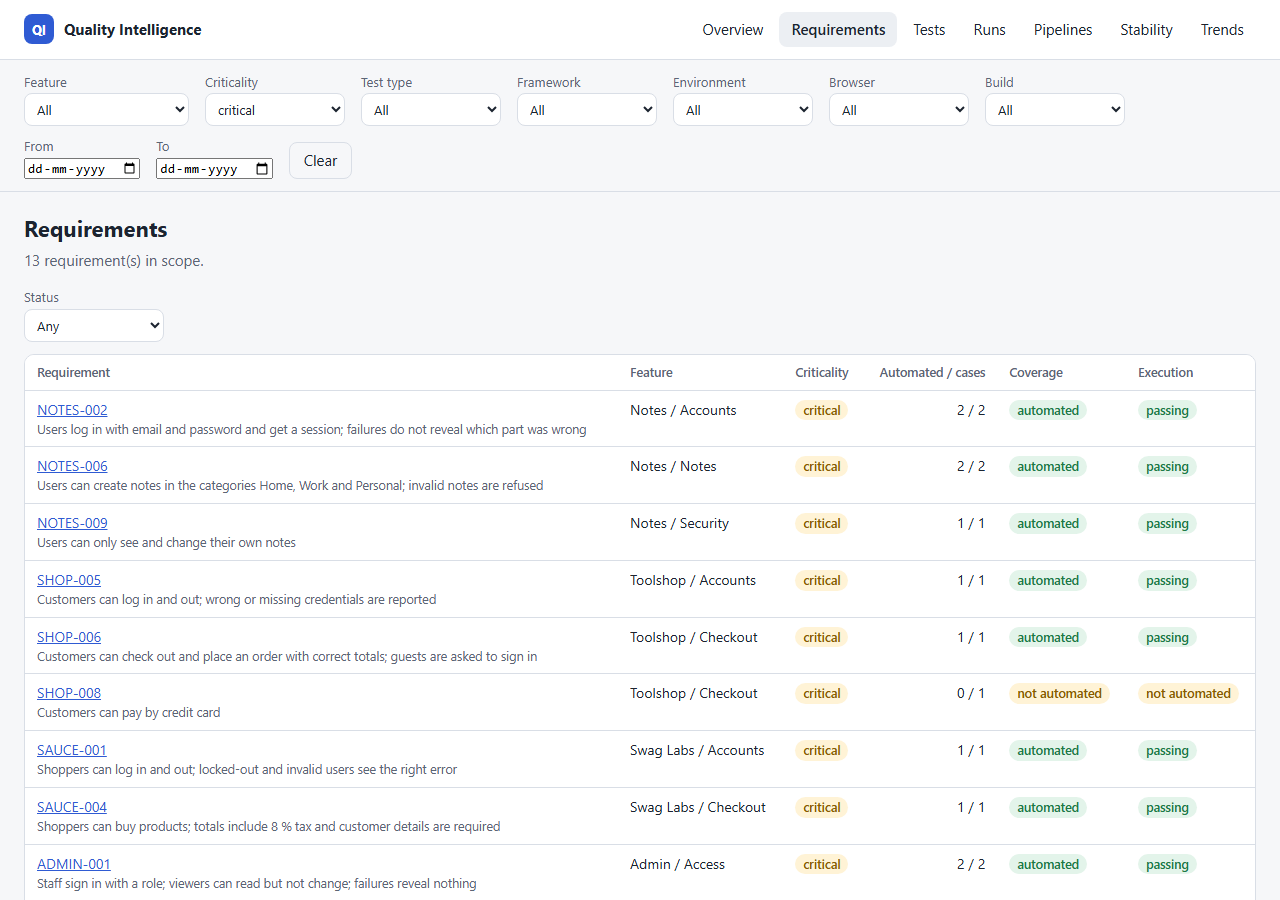
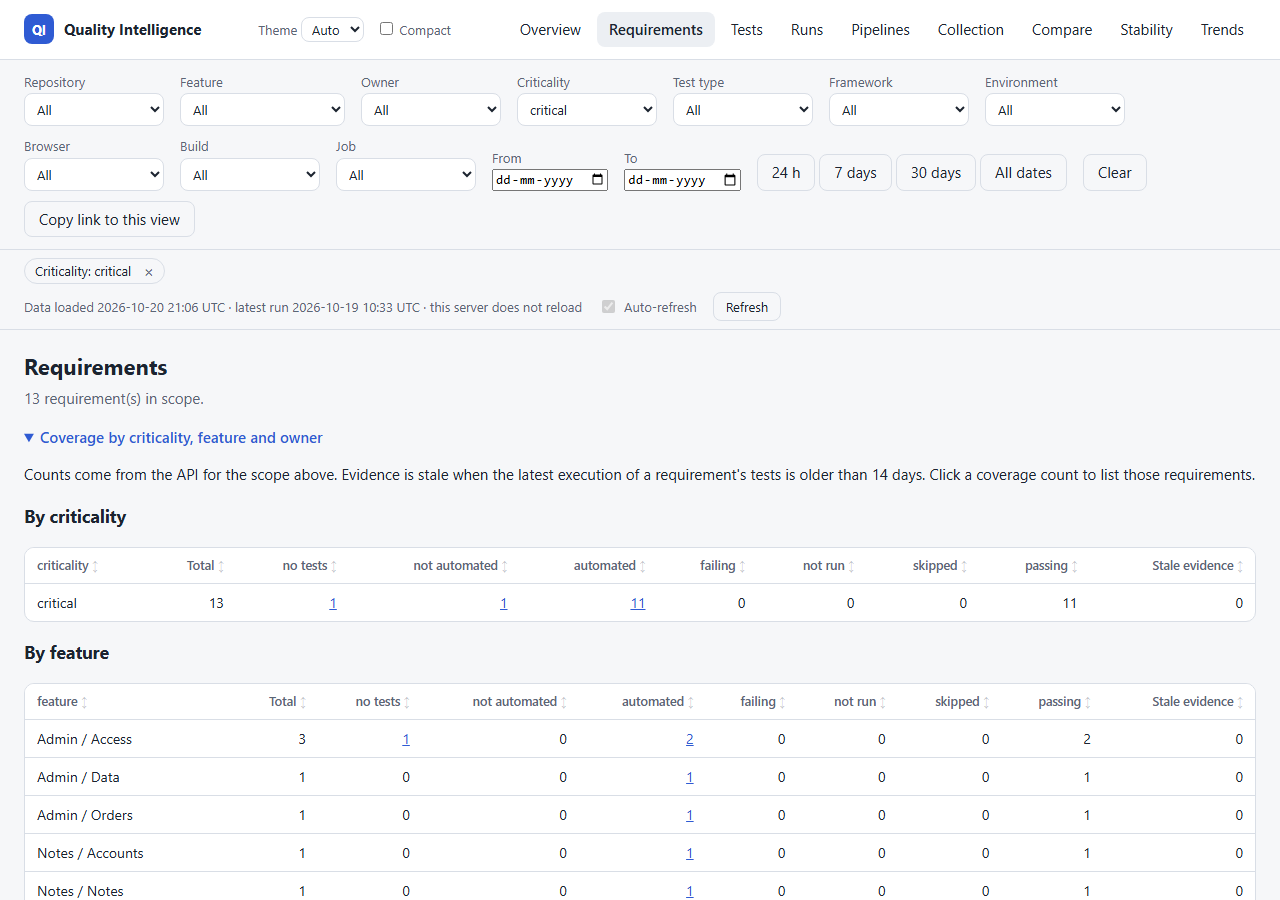
Screenshots of the current dashboard, with the nightly gate; Compare page
All docs/images regenerated (filters with Owner and Job, quick dates, theme
and compact choice, readiness with the nightly gate: At risk because of 4
flaky candidates, requirement matrix, stability evidence) and a new
dashboard-compare.png.

diff --git a/tools/screenshots.py b/tools/screenshots.py
@@ -23,6 +23,7 @@ from playwright.sync_api import Browser, sync_playwright
 
 from qualityintel.cli import main as cli_main
 from qualityintel.dashboard.app import create_app
+from qualityintel.gates.config import load_gate_config
 from qualityintel.history.store import HistoryStore
 from qualityintel.ingest.catalog_file import load_catalog
 from qualityintel.workspace import Workspace
@@ -44,6 +45,7 @@ SHOTS = [
     ("dashboard-run.png", "#/runs?framework=playwright", 1280, "dark", False),
     ("dashboard-stability.png", "#/stability", 1280, "light", True),
     ("dashboard-trends.png", "#/trends", 1280, "light", False),
+    ("dashboard-compare.png", "#/compare?framework=testng&base=f5a40d5&head=1d03232", 1280, "light", False),
     ("dashboard-phone.png", "#/", 390, "light", False),
 ]
 # Taken on the two real TaskBoard pipeline executions (samples/pipelines)
@@ -74,8 +76,12 @@ def main(argv: list[str]) -> int:
         print("samples did not import cleanly", file=sys.stderr)
         return 3
     with HistoryStore(history) as store:
+        # With the nightly gate, so the overview shows a release decision as a deployment does
         workspace = Workspace(
-            load_catalog(ROOT / "samples" / "catalog.toml"), store.runs(), store.snapshots()
+            load_catalog(ROOT / "samples" / "catalog.toml"),
+            store.runs(),
+            store.snapshots(),
+            gate=load_gate_config(ROOT / "samples" / "gates" / "nightly.toml"),
         )
     pipelines = pipeline_workspace(Path(tempfile.mkdtemp()) / "pipelines.db")
     if pipelines is None:
